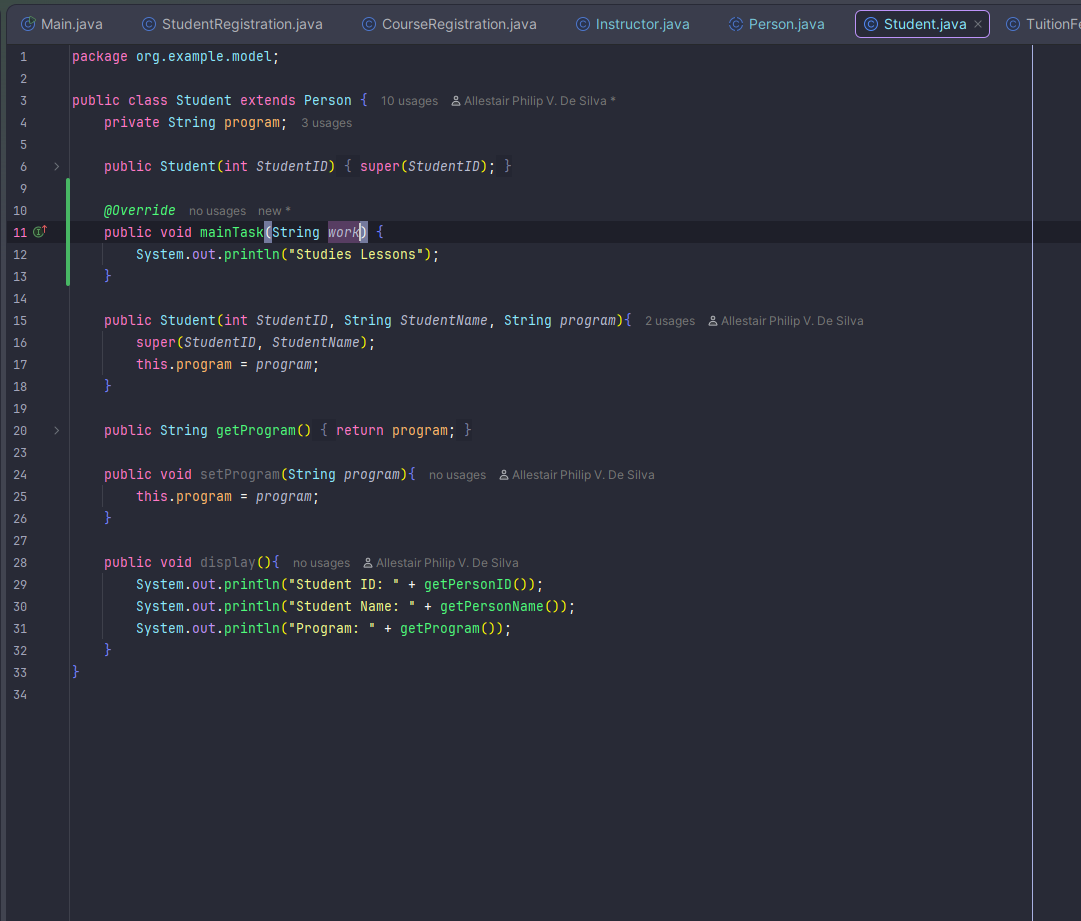
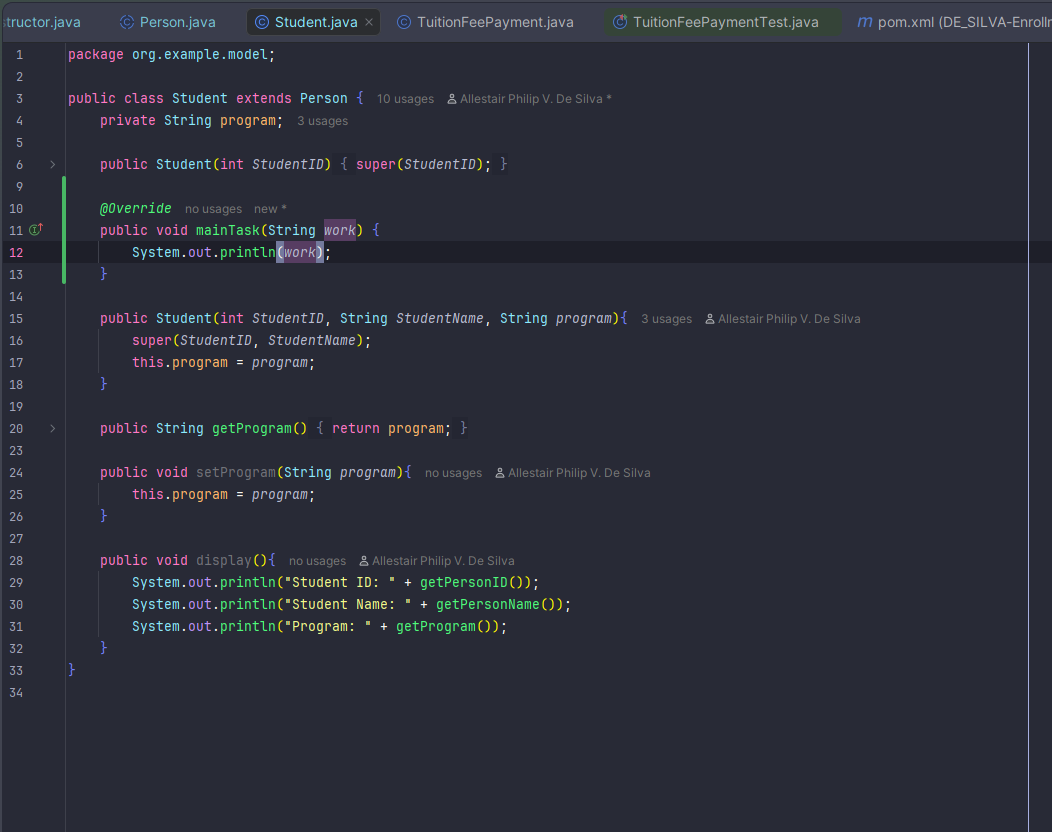
+README Updated

Changed region(s): [[0.0, 0.0, 1.0, 1.0], [0.0913, 0.5, 0.6084, 0.7812], [0.0608, 0.2812, 0.0913, 0.3125]]

diff --git a/src/main/java/org/example/model/Person.java b/src/main/java/org/example/model/Person.java
@@ -1,6 +1,6 @@
 package org.example.model;
 
-public class Person {
+public abstract class Person {
     private int PersonID;
     private String PersonName;
 
@@ -31,4 +31,6 @@ public class Person {
     public void setPersonName(String PersonName) {
         this.PersonName = PersonName;
     }
+
+    public abstract void mainTask(String work);
 }

diff --git a/src/main/java/org/example/model/Student.java b/src/main/java/org/example/model/Student.java
@@ -7,6 +7,11 @@ public class Student extends Person {
         super(StudentID);
     }
 
+    @Override
+    public void mainTask(String work) {
+        System.out.println(work);
+    }
+
     public Student(int StudentID, String StudentName, String program){
         super(StudentID, StudentName);
         this.program = program;

diff --git a/src/main/java/org/example/model/Instructor.java b/src/main/java/org/example/model/Instructor.java
@@ -9,5 +9,10 @@ public class Instructor extends Person{
 
     }
 
+    @Override
+    public void mainTask(String work) {
+        System.out.println(work);
+    }
+
 
 }

diff --git a/src/main/java/org/example/README.md b/src/main/java/org/example/README.md
@@ -11,3 +11,14 @@ Author: Allestair Philip V. De Silva
 ![Screenshot 2026-03-07 164440.png](../../../resources/images/Screenshot%202026-03-07%20164440.png)
 ![Screenshot 2026-03-07 164747.png](../../../resources/images/Screenshot%202026-03-07%20164747.png)
 ![Screenshot 2026-03-07 164831.png](../../../resources/images/Screenshot%202026-03-07%20164831.png)
+
+
+## **Abstraction**
+### **Person Class**
+![img.png](../../../resources/images/img.png)
+
+### **Student Class**
+![img_1.png](../../../resources/images/img_1.png)
+
+### **Instructor Class**
+![img_2.png](../../../resources/images/img_2.png)
